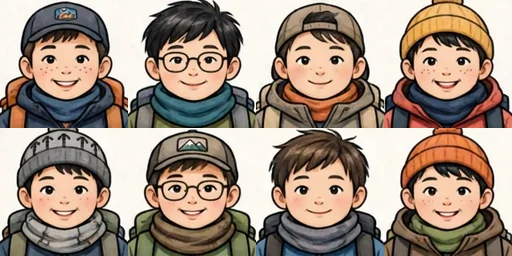
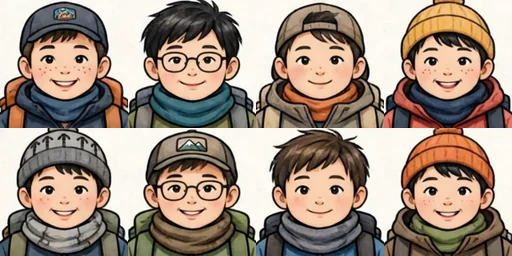
顔アイコン: 頭の位置を中心に切り出す（マスの中で左右に寄っている顔を直す）、縁の線を消す

diff --git a/tools/make-portraits.py b/tools/make-portraits.py
@@ -2,12 +2,14 @@
 #   python tools/make-portraits.py [assets-src/hikers-cells-v5] [--debug]
 # 入力: ユーザーが用意した、1 人 1 枚に切り分けたイラスト（区分ごとのフォルダ。子供・男 … 高齢・女、各 01.png〜）。
 #   マスの大きさは少しずつ違い、端に枠線が入っているものもある。
-# 処理: 顔を中心にした正方形（マスの短い辺の 84%、上寄り）を切り出す。端の枠線はこの範囲に入らない。丸く表示するので四隅は見えない。
+# 処理: 頭の位置を画像から求め、そこを中心にした正方形（マスの短い辺の 84%、上寄り）を切り出す（マスの中で顔が左右に寄っていることがある）。
+#   端に入った枠線は背景の色で消す。丸く表示するので四隅は見えない。
 # 出力: public/portraits/<区分>.webp（1 人 128px を 4 列に並べた 1 枚）と public/portraits/index.json（列数・人数）。src/ui/avatar.ts が使う。
 import json
 import os
 import sys
 
+import numpy as np
 from PIL import Image
 
 SRC = next((a for a in sys.argv[1:] if not a.startswith('--')), 'assets-src/hikers-cells-v5')
@@ -15,6 +17,53 @@ OUT = 128
 COLS = 4
 GROUPS = {'子供': 'child', '若者': 'young', '中年': 'mid', '高齢': 'senior'}
 SEXES = {'男': 'm', '女': 'f'}
+
+def crop_face(im):
+    """1 人分のマスから、頭を中心にした正方形を切り出す。
+    マスの中で顔が左右に寄っていることがあるので、マスの中央ではなく頭の位置（上半分の、背景でない画素の中央）で切る。
+    端に入った枠線（縁の近くの、上から下まで続く細い線）は背景の色で塗りつぶしてから切る。"""
+    a = np.asarray(im).astype(np.int16).copy()
+    h, w = a.shape[:2]
+    # 背景の色: 上端の数行の中央値（イラストの外側は生成りの無地）
+    bg = np.median(a[2:8, int(w * 0.2):int(w * 0.8)].reshape(-1, 3), axis=0)
+    ink = np.abs(a - bg).sum(axis=2) > 60
+    # 枠線: 左右の縁から 15% 以内で、高さの 60% 以上にわたって続く列
+    edge = int(w * 0.15)
+    for x in list(range(edge)) + list(range(w - edge, w)):
+        if ink[:, x].mean() > 0.6:
+            a[:, x] = bg
+            ink[:, x] = False
+    # 縁のごく近く（6% 以内）で、上半分を縦に貫く線は、上 60% だけ消す（下は服が縁まで届くので残す）
+    edge2 = max(3, int(w * 0.06))
+    upper = int(h * 0.6)
+    for x in list(range(edge2)) + list(range(w - edge2, w)):
+        if ink[: int(h * 0.55), x].mean() > 0.5:
+            a[:upper, x] = bg
+            ink[:upper, x] = False
+    # 上の縁の横線（下の縁は服が端まで届くので触らない）
+    for y in range(int(h * 0.12)):
+        if ink[y, :].mean() > 0.6:
+            a[y, :] = bg
+            ink[y, :] = False
+    # 頭の中心（上から 4%〜50% の帯で、背景でない画素の x の中央値）
+    band = ink[int(h * 0.04):int(h * 0.5), :]
+    ys, xs = np.nonzero(band)
+    cx = int(np.median(xs)) if len(xs) > 50 else w // 2
+    # 正方形はマスの内側に収める（マスの外は描かれていないので、はみ出すと服の切れ目が見える）。
+    # 頭が端に寄っていて収まらないときは、少し小さくし、それでも収まらなければ中心を内側へ寄せる
+    side = int(min(min(w, h) * 0.84, 2 * cx, 2 * (w - cx)))
+    side = max(side, int(min(w, h) * 0.74))
+    cx = min(max(cx, side // 2), w - side // 2)
+    left = cx - side // 2
+    top = int(h * 0.02)
+    # 上下にはみ出す分（ほぼない）は背景の色で埋める
+    canvas = Image.new('RGB', (side, side), tuple(int(c) for c in bg))
+    src = Image.fromarray(a.astype(np.uint8))
+    sx0, sx1 = max(0, left), min(w, left + side)
+    sy0, sy1 = max(0, top), min(h, top + side)
+    canvas.paste(src.crop((sx0, sy0, sx1, sy1)), (sx0 - left, sy0 - top))
+    return canvas.resize((OUT, OUT), Image.LANCZOS)
+
 
 os.makedirs('public/portraits', exist_ok=True)
 counts = {}
@@ -32,12 +81,7 @@ for folder in sorted(os.listdir(SRC)):
     files = sorted(f for f in os.listdir(path) if f.lower().endswith(('.png', '.jpg', '.jpeg', '.webp')))
     faces = []
     for f in files:
-        im = Image.open(os.path.join(path, f)).convert('RGB')
-        w, h = im.size
-        side = int(min(w, h) * 0.84)
-        left = (w - side) // 2
-        top = int(h * 0.02)
-        faces.append(im.crop((left, top, left + side, top + side)).resize((OUT, OUT), Image.LANCZOS))
+        faces.append(crop_face(Image.open(os.path.join(path, f)).convert('RGB')))
     rows = (len(faces) + COLS - 1) // COLS
     sheet = Image.new('RGB', (OUT * COLS, OUT * max(1, rows)), (246, 242, 234))
     for i, face in enumerate(faces):
